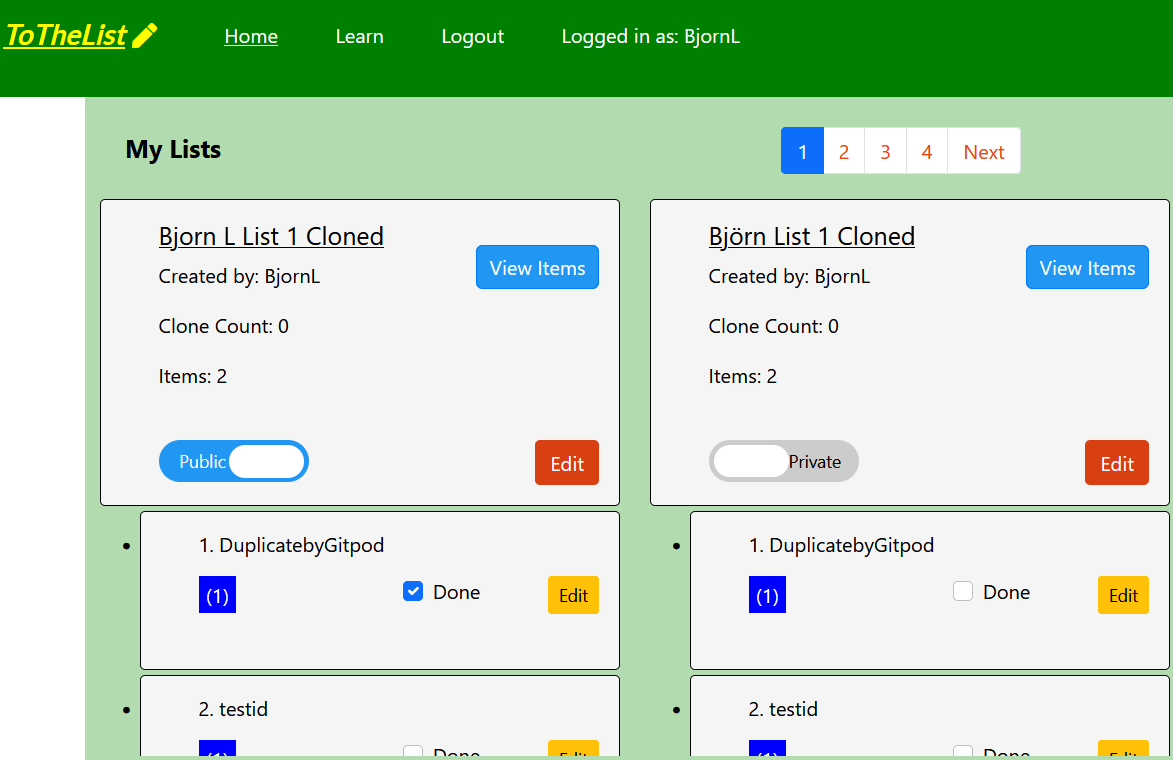
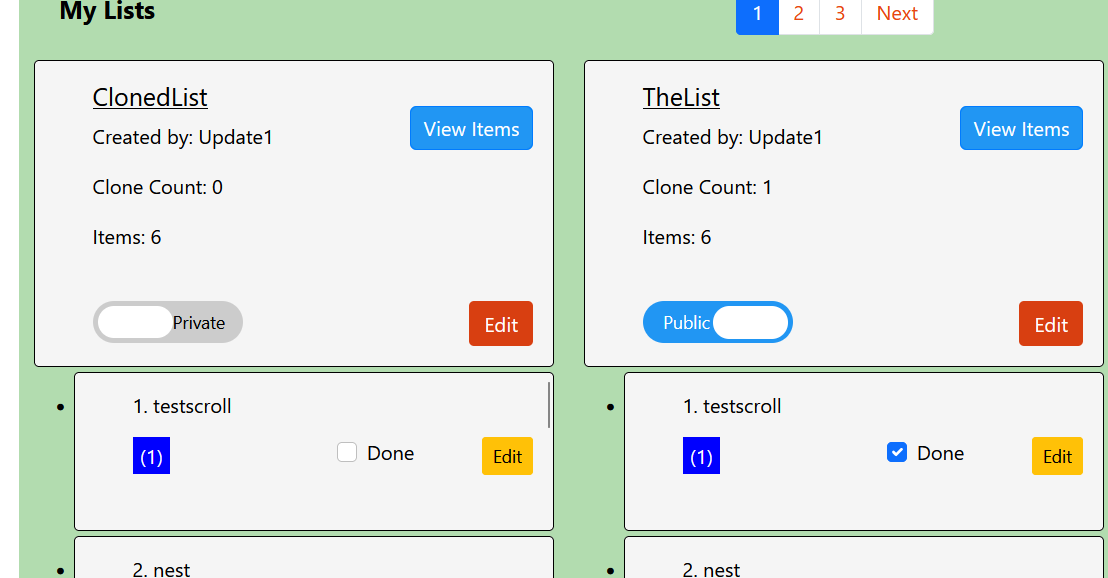
Update README: Align text content with displayed functions

diff --git a/README.md b/README.md
@@ -75,7 +75,7 @@ A typical user of ToTheList is someone who wants to efficiently manage their sho
 - As a Site User, I can rename a list so that I don't need to delete and recreate a new list if I accidentally named it wrong.
 - As a Site User, I can delete lists so that I can remove ones that are no longer needed.
 - As a Site User, I can view and copy an existing list created by another user so that I can reuse items in my own lists.
-- As a Site User, I can set my lists to be private or public so that I can control whether I want to share my lists and let other users add items to my public list.
+- As a Site User, I can set my lists to be private or public so that I can control whether I want to share my lists.
 - As a Site User, I can see how frequently my lists are copied, so that I can adapt and prioritize sharing lists that are most meaningful. 
 
 #### EPIC Items interaction
@@ -169,7 +169,7 @@ Django AllAuth was used for the user authentication system.
 
 To facilitate the management of shopping lists, a custom ShoppingList model was developed. Each shopping list is associated with a single user who acts as its owner. Therefore, the owner attribute of the ShoppingList model is a foreign key to the User model.
 
-In addition to the ShoppingList model, a ShoppingListPreference model was implemented to handle user preferences related to shopping lists. This model allows users to specify whether a shopping list should be deleted or retained. . The user attribute of the ShoppingListPreference model is a foreign key to the User model, indicating that each preference setting is linked to a single user. Similarly, the shopping_list attribute is a foreign key to the ShoppingList model, indicating that each preference setting corresponds to a specific shopping list.
+In addition to the ShoppingList model, a ShoppingListPreference model was implemented to handle user preferences related to shopping lists. This model allows users to specify whether a shopping list should be deleted or retained. The user attribute of the ShoppingListPreference model is a foreign key to the User model, indicating that each preference setting is linked to a single user. Similarly, the shopping_list attribute is a foreign key to the ShoppingList model, indicating that each preference setting corresponds to a specific shopping list.
 
 Furthermore, the Item model represents individual items within a shopping list. Each item is associated with a single shopping list, represented by the shopping_list attribute, which is a foreign key to the ShoppingList model. Additionally, the created_by attribute of the Item model signifies the user who created the item, and it is a foreign key to the User model, indicating that each item is linked to its creator.
 
@@ -315,7 +315,7 @@ For a logged-in user, the following information will be presented for lists in t
 
 If the logged-in user has created lists, they will be displayed at the top of the page.
 Any items in the list will be linked under the card and will be scrollable directly below the card if the user clicks on the list title.
-In the example below, a list has been cloned once. It contains 2 items, one of which has been marked as done. The list is set to "public" and the edit button is visible since the logged-in user owns the list. 
+In the example below, a list has been cloned once. It contains 6 items, one of which has been marked as done. The list is set to "public" and the edit button is visible since the logged-in user owns the list. 
 
 ![header](docs/readme_images/lists.png)
 
@@ -351,11 +351,11 @@ A list can be created from four different locations:
     - Enter a name for the list and click "Clone list" -> The newly created list is confirmed with a message and a close button.
     - Click the "Close" button-> The latest created list will be displayed on the list view, the clone count for the list that was cloned will increase by 1.
 
-In the image below, you can see an example of how the list "BjornL List 1" is displayed before cloning the list.
+In the image below, you can see an example of how the list "TestList" is displayed before cloning the list.
 
 ![header](docs/readme_images/clonelist.png)
 
-In the image below, the list has been cloned and renamed to "BjornL List 1 Cloned".
+In the image below, the list has been cloned and renamed to "TestListCloned".
 
 ![header](docs/readme_images/clonelist_confirmed.png)
 
@@ -371,7 +371,7 @@ A logged-in user can rename a list from the list view by following these steps:
   - A message will promptly appear, confirming the successful renaming of the list along with the new name. Additionally, a "Close" button will be provided.
   - To return to the list view, simply click on the "Close" button.
 
-In the image below, there is an example of how the list "BjornL List 1" is displayed before renaming the list.
+In the image below, there is an example of how the list "TestList" is displayed before renaming the list to "FinalList"
 
 ![header](docs/readme_images/renamelist.png)
 
@@ -405,17 +405,15 @@ In the image below, there is an example of a public and private list positioned 
 **View items in a list**
 
 1. For a user owning the list:
-   - Click on the list title. This action will display all items directly under the list. To hide the items, simply click on the list title again.
+   - Click on the View Items button (or list title). This action will display all items directly under the list. To hide the items, simply click on the View Items button again.
 2. For a user owning the list:
    - Click on the "Edit" button for the list. This will direct the user to a page with various edit options.
-   - On the edit options page, locate and click the "Items" button. This action will display the items on a separate page.
+   - On the edit options page, locate and click the "Show Items" button. This action will display the items on a separate page.
    - To return to the previous pages, simply use the browser's back button.
-3. For a user viewing other users' public lists:
-   - Click on the list title in the "Other Lists" section. This will display the list items on a separate page.
-   - To return to the previous pages, use the browser's back button.
+3. For a user viewing other users' the same procedure however only the   "Clone" option is displayed for the list instead of "Edit" button.
 
 ### Item management
-All items are associated with a list and can be added either by creating them or by cloning other lists and their items.
+All items are associated with a list can be added either by creating them or by cloning other lists and their items.
 Moreover, users have the ability to rename and delete items.
 Each item in a list owned by the logged-in user can be marked as 'done' or 'not done' (when the checkbox is not checked).
 The owner of an item has full editing access to it. For public lists (the "other lists" section), a logged-in user can only view the items in these lists.
@@ -441,6 +439,7 @@ At the bottom of the separated item page, a "Back to Top" button will appear whe
    - Click on the "Close" button to return to the item view.
 3. From the list view:
     - From the list view, click on a list containing items.
+    - Click View Items button.
     - Click on an item with the "Edit" button visible. This action will display the edit item page.
     - On the edit item page, click on the "Duplicate Item" button. This will prompt the display of a duplicate item page.
     - Enter a name for the duplicated item and click on "Duplicate Item". A message will appear, confirming the duplication.
